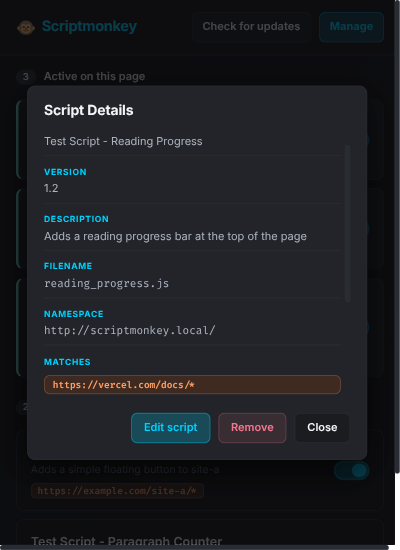
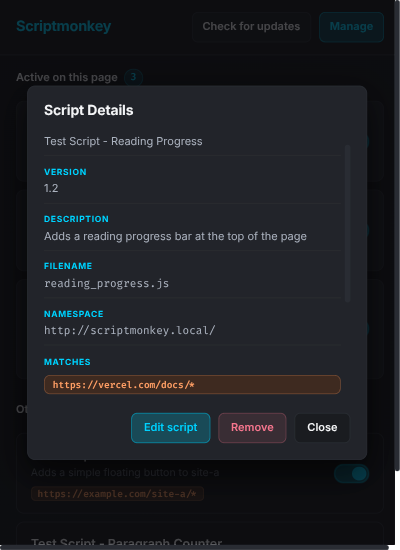
feat: refine popup UI styles

diff --git a/src/popup/App.css b/src/popup/App.css
@@ -22,15 +22,7 @@ header {
 header h1 {
 	font-size: var(--text-md);
 	letter-spacing: -0.02em;
-	display: flex;
-	align-items: center;
-	gap: 6px;
 	color: var(--accent);
-}
-
-header h1::before {
-	content: "🐵";
-	font-size: 16px;
 }
 
 .header-actions {
@@ -78,17 +70,15 @@ header h1::before {
 }
 
 #active-list .script-item {
-	border-left: 3px solid var(--success);
 	background: var(--surface-card-active);
 }
 
 #active-list .script-item:hover {
-	border-color: var(--success);
+	border-color: var(--border-hover);
 	background: var(--surface-hover);
 }
 
 #other-list .script-item {
-	border-left: 1px solid var(--border);
 	background: var(--surface-card-inactive);
 }
 
@@ -260,25 +250,24 @@ header h1::before {
 }
 
 .empty {
-	padding: 32px 16px;
+	padding: 24px 16px;
 	text-align: center;
 	color: var(--muted);
-	font-size: 11px;
-	background: rgba(36, 40, 59, 0.2);
-	margin: 10px 16px;
+	font-size: var(--text-xs);
+	background: var(--surface-sidebar);
+	margin: 8px 16px 12px;
 	border-radius: var(--radius);
 	border: 1px dashed var(--border);
 	display: flex;
 	flex-direction: column;
 	align-items: center;
 	justify-content: center;
-	gap: 8px;
+	gap: 6px;
 }
 
-.empty::before {
-	content: "📭";
-	font-size: 20px;
-	opacity: 0.6;
+.empty-icon {
+	color: var(--muted);
+	opacity: 0.8;
 }
 
 .btn-update {
@@ -304,12 +293,33 @@ header h1::before {
 	color: var(--text-bold);
 	display: flex;
 	align-items: center;
-	gap: 8px;
+	gap: 6px;
 }
 
 .section-count {
-	border-radius: 10px;
+	font-size: 10px;
+	font-weight: 600;
+	font-family: var(--font-mono);
+	height: 18px;
 	min-width: 18px;
+	padding: 0 6px;
+	border-radius: 9999px;
+	display: inline-flex;
+	align-items: center;
+	justify-content: center;
+	line-height: 1;
+}
+
+.section-count.badge-active {
+	background: rgba(0, 210, 255, 0.12);
+	color: var(--accent);
+	border: 1px solid rgba(0, 210, 255, 0.25);
+}
+
+.section-count.badge-muted {
+	background: var(--surface-sidebar);
+	color: var(--muted);
+	border: 1px solid var(--border);
 }
 
 .modal-content h3 {

diff --git a/src/popup/App.tsx b/src/popup/App.tsx
@@ -396,10 +396,14 @@ export default function App() {
 				<>
 					<div id="active-section">
 						<div className="section-label">
-							<span className="badge badge-muted section-count">
+							<span>Active on this page</span>
+							<span
+								className={`badge section-count ${
+									activeScripts.length > 0 ? "badge-active" : "badge-muted"
+								}`}
+							>
 								{activeScripts.length}
-							</span>{" "}
-							Active on this page
+							</span>
 						</div>
 						<div id="active-list">
 							{activeScripts.length > 0 ? (
@@ -420,7 +424,26 @@ export default function App() {
 									/>
 								))
 							) : (
-								<div className="empty">No scripts for this page</div>
+								<div className="empty">
+									<svg
+										aria-hidden="true"
+										viewBox="0 0 24 24"
+										width="20"
+										height="20"
+										fill="none"
+										stroke="currentColor"
+										strokeWidth="1.75"
+										strokeLinecap="round"
+										strokeLinejoin="round"
+										className="empty-icon"
+									>
+										<path d="M14.5 2H6a2 2 0 0 0-2 2v16a2 2 0 0 0 2 2h12a2 2 0 0 0 2-2V7.5L14.5 2z" />
+										<polyline points="14 2 14 8 20 8" />
+										<path d="m10 13-2 2 2 2" />
+										<path d="m14 17 2-2-2-2" />
+									</svg>
+									<span>No scripts for this page</span>
+								</div>
 							)}
 						</div>
 					</div>
@@ -428,10 +451,10 @@ export default function App() {
 					{otherScripts.length > 0 && (
 						<div id="other-section">
 							<div className="section-label">
+								<span>Other scripts</span>
 								<span className="badge badge-muted section-count">
 									{otherScripts.length}
-								</span>{" "}
-								Other scripts
+								</span>
 							</div>
 							<div id="other-list">
 								{otherScripts.map((script) => (
